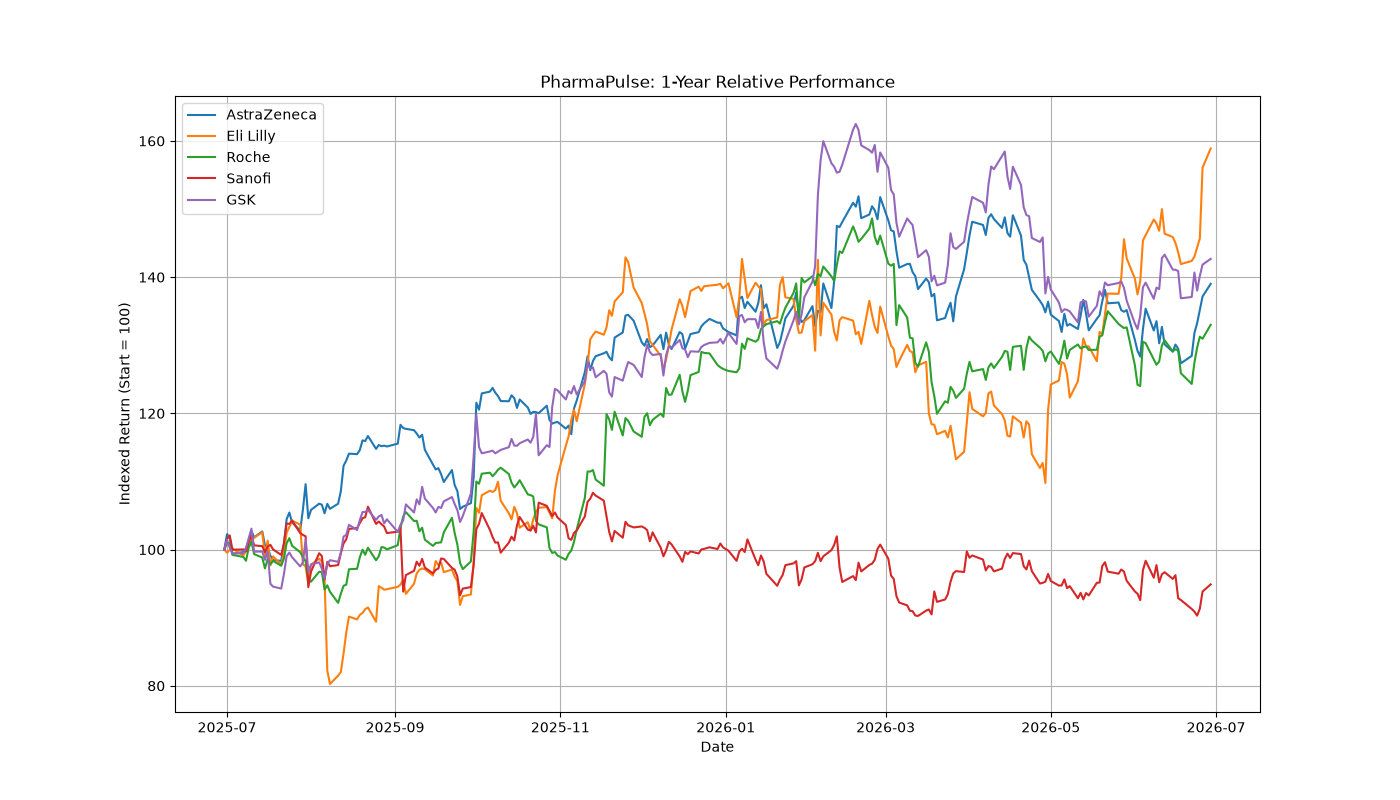
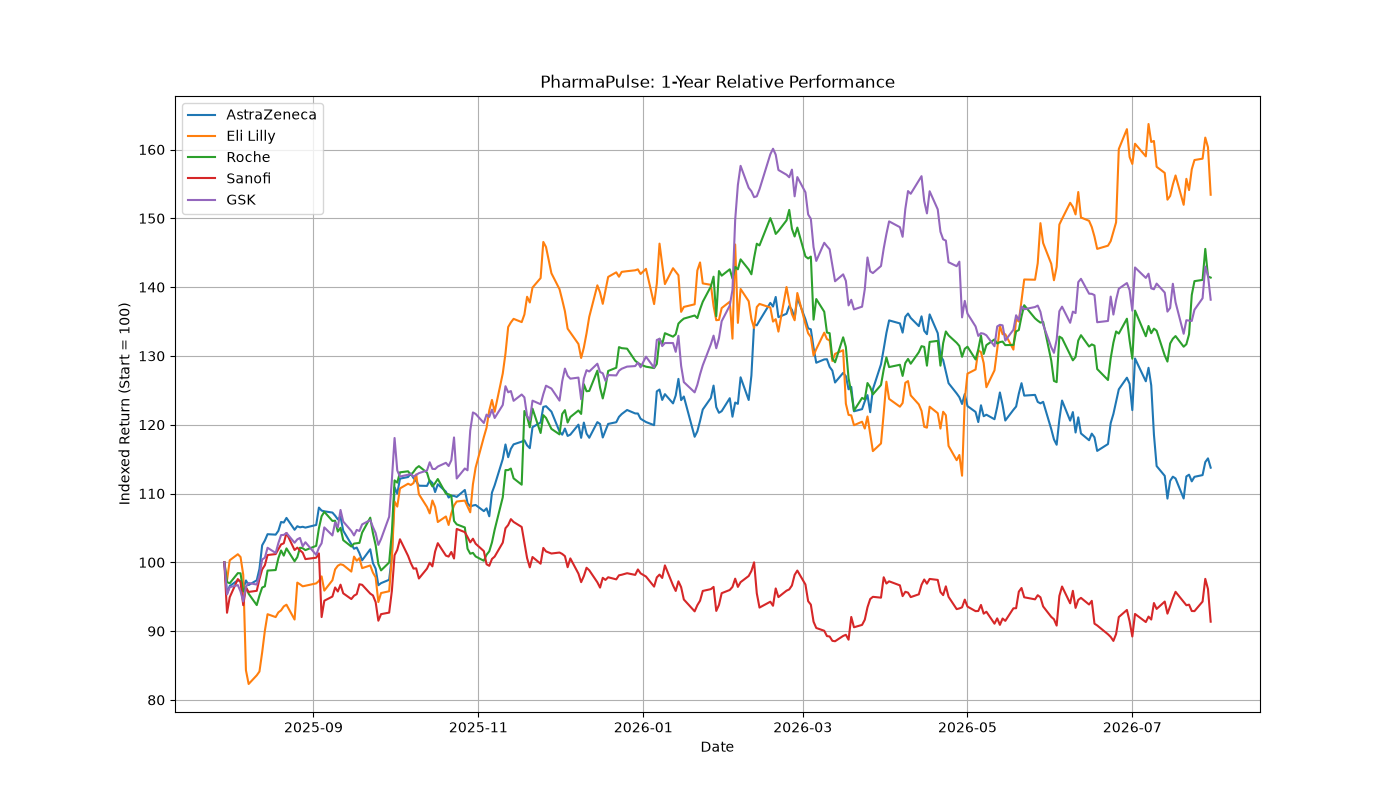
Add market capitalization rankings

diff --git a/main.py b/main.py
@@ -1,5 +1,6 @@
 import yfinance as yf
 import matplotlib.pyplot as plt
+import time
 
 companies = {
     "AZN": "AstraZeneca",
@@ -12,15 +13,43 @@ companies = {
 returns = {}
 volatility = {}
 risk_score = {}
+market_caps = {}
 
 
+def get_market_cap(stock):
+    # fast_info is quicker and less prone to silently returning None
+    try:
+        cap = stock.fast_info.get("marketCap")
+        if cap:
+            return cap
+    except Exception:
+        pass
 
-plt.figure(figsize=(14,8))
+    # fallback: derive it manually from shares outstanding * last price
+    try:
+        info = stock.info
+        cap = info.get("marketCap")
+        if cap:
+            return cap
+        shares = info.get("sharesOutstanding")
+        last_price = stock.fast_info.get("lastPrice")
+        if shares and last_price:
+            return shares * last_price
+    except Exception:
+        pass
+
+    return 0
+
+
+plt.figure(figsize=(14, 8))
 
 for ticker, company in companies.items():
 
     stock = yf.Ticker(ticker)
     history = stock.history(period="1y")
+
+    market_caps[company] = get_market_cap(stock)
+    print(company, market_caps[company])
 
     # calculate yearly return
     start_price = history["Close"].iloc[0]
@@ -34,6 +63,7 @@ for ticker, company in companies.items():
     annual_volatility = daily_returns.std() * (252 ** 0.5) * 100
 
     volatility[company] = annual_volatility
+
     risk_score[company] = yearly_return / annual_volatility
 
     # create normalized graph
@@ -45,6 +75,8 @@ for ticker, company in companies.items():
         label=company
     )
 
+    time.sleep(1)  # small delay avoids throttling
+
 # graph
 plt.title("PharmaPulse: 1-Year Relative Performance")
 plt.xlabel("Date")
@@ -54,6 +86,15 @@ plt.grid(True)
 
 plt.savefig("pharmapulse_comparison.png")
 plt.show()
+
+
+def format_market_cap(value):
+    if value >= 1_000_000_000_000:
+        return f"${value / 1_000_000_000_000:.2f}T"
+    elif value >= 1_000_000_000:
+        return f"${value / 1_000_000_000:.0f}B"
+    else:
+        return f"${value:,.0f}"
 
 # ranking section
 print("\n")
@@ -103,3 +144,17 @@ for i, (company, score) in enumerate(risk_rank, 1):
 
 print("\n🏆 Best Risk-Adjusted Investment:")
 print(f"{risk_rank[0][0]} ({risk_rank[0][1]:.2f})")
+
+print("\n")
+print("=" * 40)
+print("      MARKET CAP RANKINGS")
+print("=" * 40)
+
+market_rank = sorted(
+    market_caps.items(),
+    key=lambda x: x[1],
+    reverse=True
+)
+
+for i, (company, cap) in enumerate(market_rank, 1):
+    print(f"{i}. {company:<15} {format_market_cap(cap)}")
